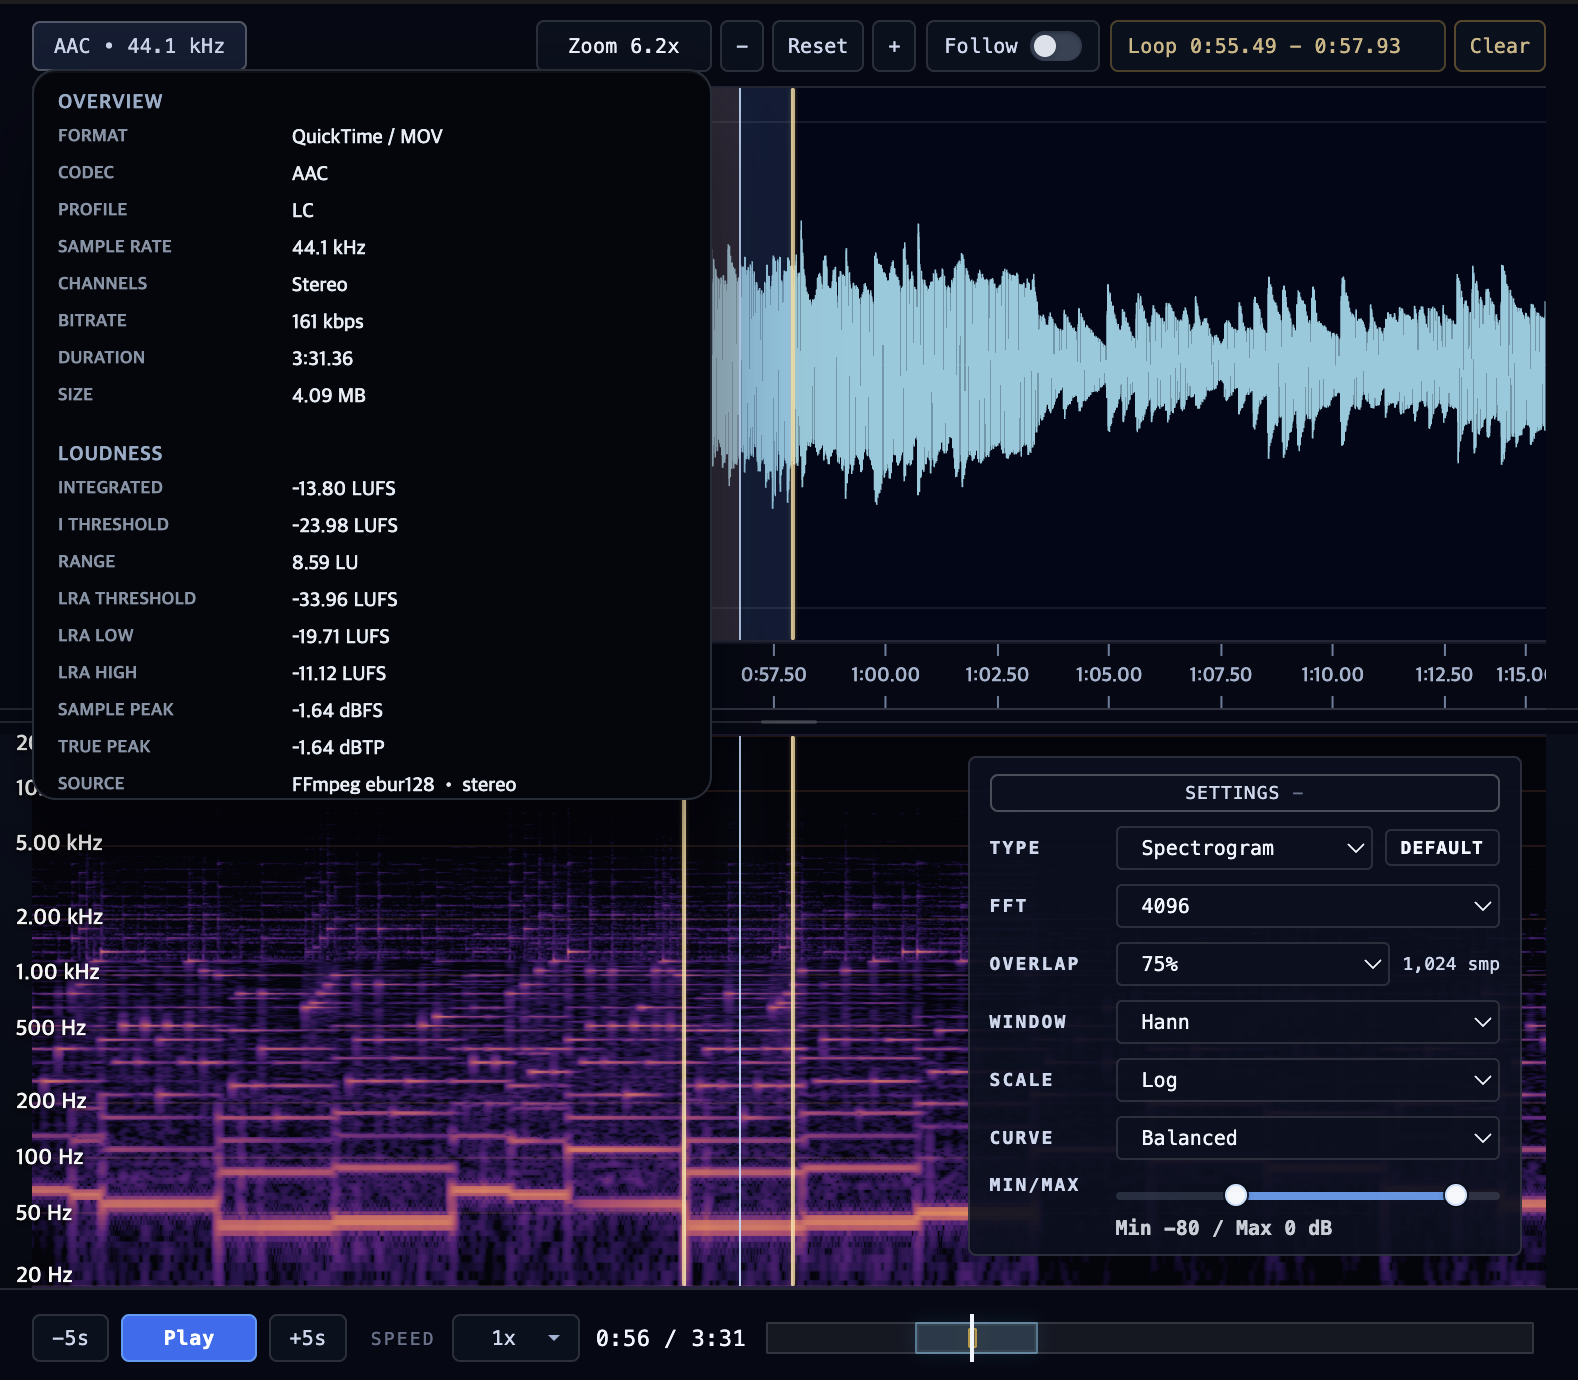
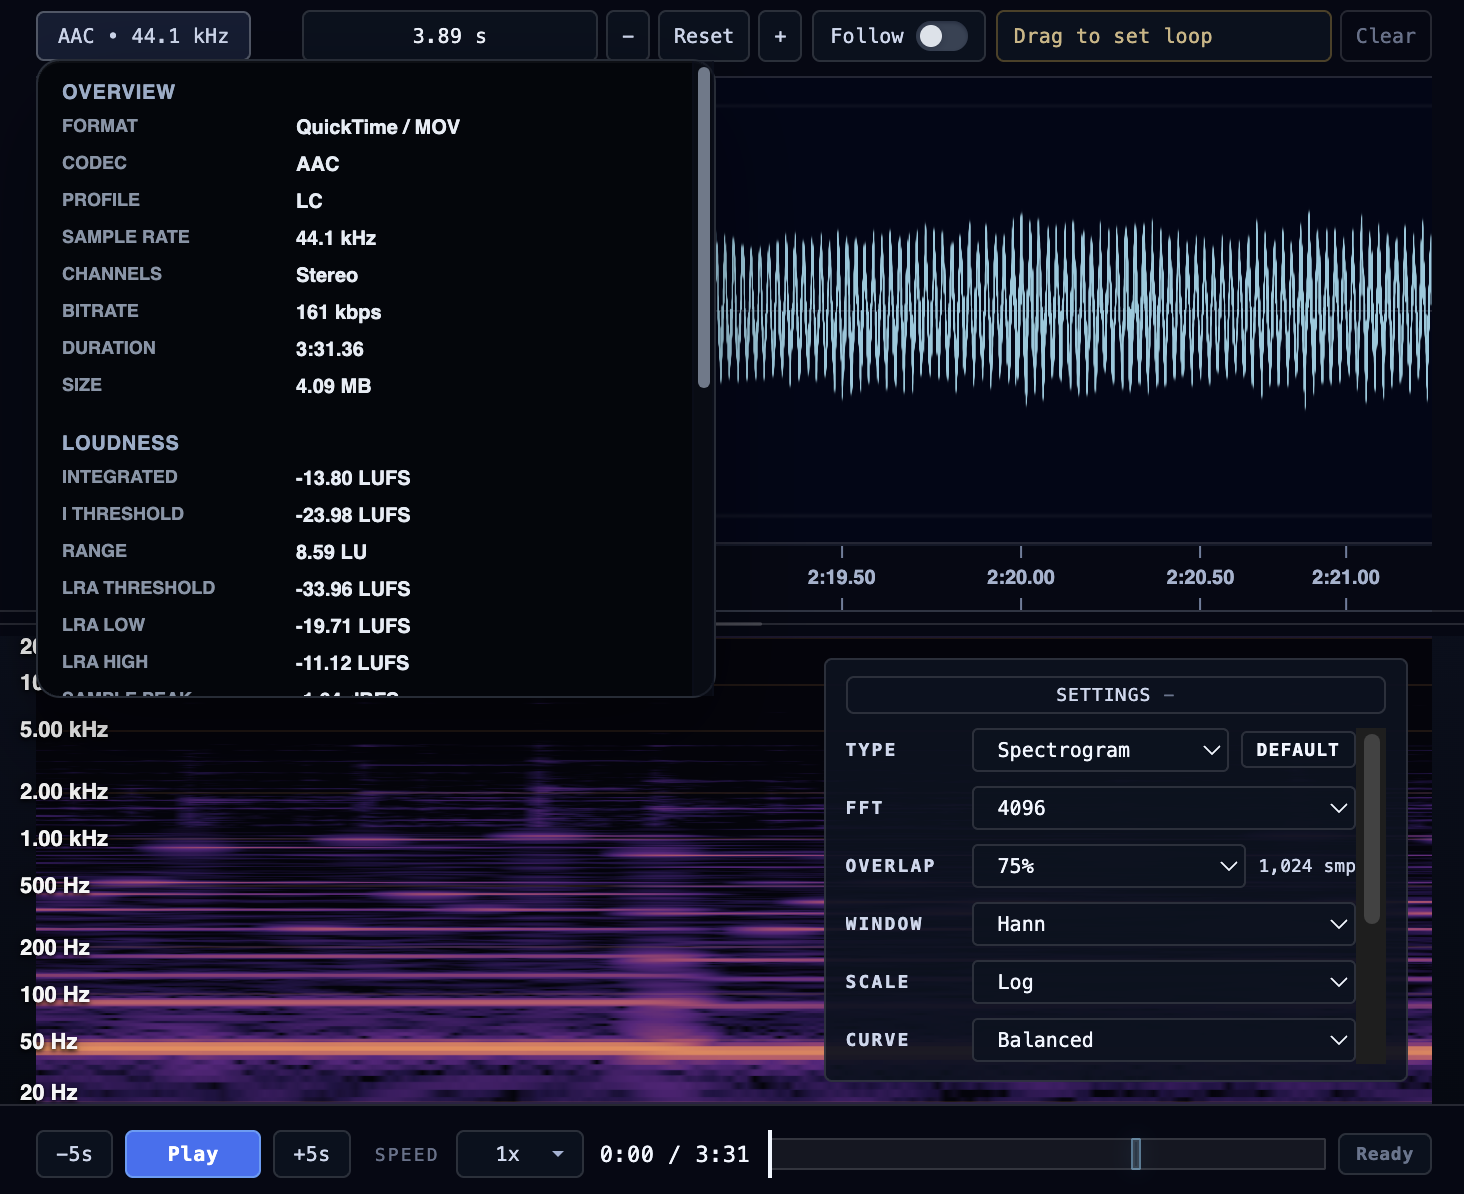
Prepare 1.0.6 release

Changed region(s): [[0.0, 0.0, 1.0, 0.9916], [0.1844, 0.093, 0.3381, 0.5888]]

diff --git a/src-webview/audioEngineWorker.ts b/src-webview/audioEngineWorker.ts
@@ -2165,10 +2165,10 @@ function buildWaveformSampleInfo(pointerRatioX: number, pointerRatioY: number, r
 
   const sampleStartFrame = range.startFrame;
   const visibleSampleSpan = Math.max(0, Math.max(1, spanFrames) - 1);
-  const sampleIndex = clamp(frameAtPointer, 0, Math.max(0, state.session.durationFrames));
+  const sampleIndex = clamp(frameAtPointer, 0, getMaxSampleIndex());
 
   return {
-    label: timeLabel,
+    label: formatAxisLabel(sampleIndex / sampleRate),
     markerVisible: true,
     markerXRatio: spanFrames <= 0 ? 0 : clamp01((sampleIndex - sampleStartFrame) / Math.max(1, visibleSampleSpan)),
     markerYRatio: clamp01(pointerRatioY),
@@ -2834,6 +2834,10 @@ function framesToSeconds(frame: number): number {
 
 function clampFrame(value: number): number {
   return clamp(Math.round(value), 0, Math.max(0, state.session.durationFrames));
+}
+
+function getMaxSampleIndex(): number {
+  return Math.max(0, state.session.durationFrames - 1);
 }
 
 function disposeWasmSession(module: WaveCoreModule): void {

diff --git a/src-webview/audio-analysis/worker.ts b/src-webview/audio-analysis/worker.ts
@@ -6334,6 +6334,10 @@ function disposeWasmSession(module: WaveCoreModule): void {
   if (analysisState.spectrogramOutputPointer) {
     module._free(analysisState.spectrogramOutputPointer);
   }
+  if (analysisSampleScratchPointer) {
+    module._free(analysisSampleScratchPointer);
+    analysisSampleScratchPointer = 0;
+  }
 
   module._wave_dispose_session();
   analysisState.module = null;

diff --git a/src-webview/audioscope.css b/src-webview/audioscope.css
@@ -412,8 +412,7 @@ body {
 
 .wave-toolbar-pill-zoom {
   justify-content: center;
-  width: 88px;
-  min-width: 88px;
+  min-width: 148px;
   color: var(--chrome-text-strong);
   text-align: center;
   cursor: default;
